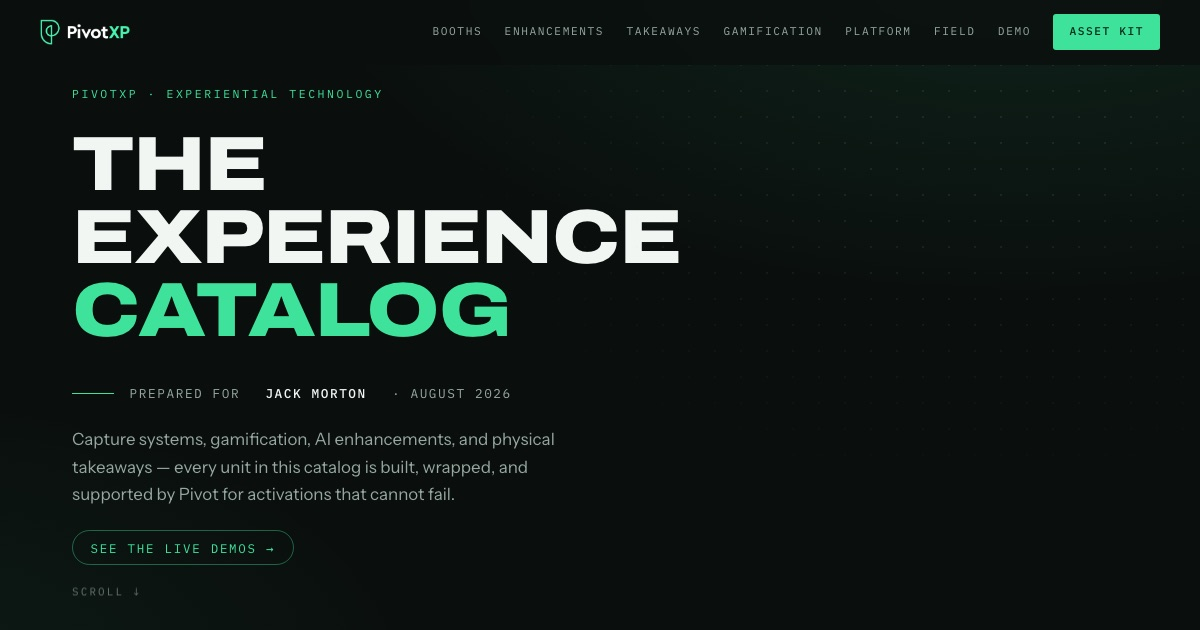
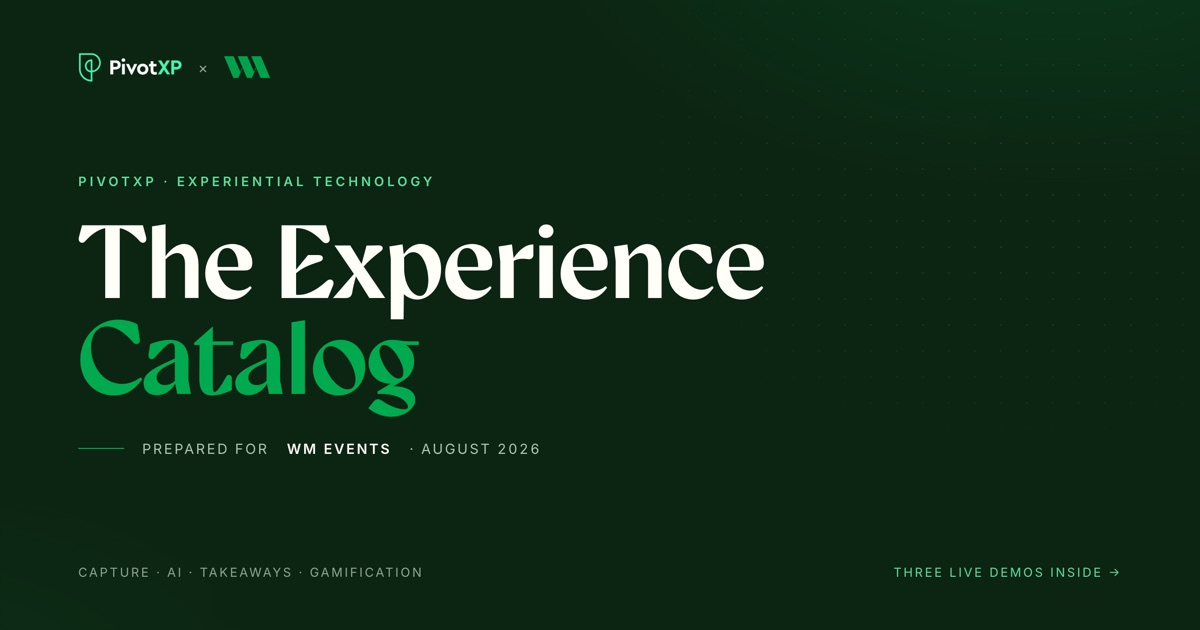
Fix the social card's client name; cut first paint from 3.4 MB to 333 KB
The link-preview image said JACK MORTON
- assets/img/og-cover.jpg was a hand-made file that still read "PREPARED FOR
  JACK MORTON". That image is the first thing a recipient sees when the link
  is pasted into Slack, email or LinkedIn - the most visible instance of the
  leak so far, and invisible from the page itself. Replaced with a card
  rendered from markup (tools/og-card.html + tools/make-og.mjs) so it can
  never drift from the client it was built for.
- Dropped og:url. It pointed at the original repo, so clicking the preview
  card sent people to a build without any of these fixes. With no og:url
  scrapers fall back to whatever URL was actually shared.
- og:image now points at the copy that holds the current card, with a note
  to update the one line if this is merged back upstream.

First paint 3,435 KB / 24 requests -> 333 KB / 8
- Video posters were 2,564 KB of that. A <video poster> is fetched eagerly
  regardless of preload or loading, so all sixteen downloaded before the
  reader had scrolled past the cover. Deferred behind an observer like the
  demo frames, with a branded background so an unresolved frame doesn't
  flash black. The lightbox falls back to data-poster for a card opened
  before its poster resolved.
- The six product renders were 3,408 KB of PNG. WebP at q88 keeps the alpha
  and the LED gradients and costs 329 KB - 91% smaller.
- Three photos were encoded at 1.3-2.1 bytes/pixel (selfie-event-1 was
[…]

diff --git a/index.html b/index.html
@@ -8,8 +8,16 @@
 <meta name="description" content="PivotXP experiential product catalog, prepared for WM Events.">
 <meta property="og:title" content="Pivot × WM Events — The Experience Catalog">
 <meta property="og:description" content="Capture systems, gamification, AI enhancements, and physical takeaways — with three live demos you can drive in the browser.">
-<meta property="og:image" content="https://pivotxp.github.io/wm-events-catalog/assets/img/og-cover.jpg">
-<meta property="og:url" content="https://pivotxp.github.io/wm-events-catalog/">
+<!-- og:image must be absolute for scrapers. It points at the copy that actually holds
+     the current card; the original repo still has the old one. Update this single line
+     if this build is merged back to pivotxp/wm-events-catalog.
+     Regenerate the card itself with: node tools/make-og.mjs -->
+<meta property="og:image" content="https://kpscriptz.github.io/wm-events-catalog-v2/assets/img/og-cover.jpg?v=5">
+<meta property="og:image:width" content="1200">
+<meta property="og:image:height" content="630">
+<meta property="og:image:alt" content="Pivot × WM Events — The Experience Catalog">
+<!-- no og:url on purpose: scrapers fall back to the URL actually shared, so the
+     preview card can never send someone to a different build than the link. -->
 <meta property="og:type" content="website">
 <meta name="twitter:card" content="summary_large_image">
 <meta name="theme-color" content="#0C2412">
@@ -112,6 +120,9 @@ section{padding:clamp(4rem,9vw,7.5rem) clamp(1.2rem,6vw,5rem)}
 /* ---------- product spreads ---------- */
 .product{display:grid;grid-template-columns:minmax(0,5fr) minmax(0,7fr);gap:clamp(1.5rem,4vw,4rem);align-items:start;padding:clamp(2.5rem,5vw,4rem) 0;border-top:1px solid var(--line)}
 .product:first-of-type{border-top:none;padding-top:0}
+/* a spread with no field media has a short info column next to a full-height
+   render; centring it beats leaving ~220px of dead space under the copy */
+.product:not(:has(.media)){align-items:center}
 .product .stage{background:linear-gradient(180deg,var(--raise),var(--surface));border:1px solid var(--line);border-radius:6px;padding:clamp(1.5rem,3vw,2.6rem);display:flex;align-items:center;justify-content:center;position:sticky;top:5.2rem}
 .product .stage img{max-height:440px;width:auto;max-width:100%;filter:drop-shadow(0 30px 40px rgba(0,0,0,.5))}
 .product .info .kicker{margin-bottom:.5rem}
@@ -127,6 +138,9 @@ section{padding:clamp(4rem,9vw,7.5rem) clamp(1.2rem,6vw,5rem)}
 .media{display:grid;gap:.8rem;grid-template-columns:repeat(auto-fit,minmax(230px,1fr));align-items:start}
 .media figure{position:relative;border-radius:5px;overflow:hidden;background:var(--surface);border:1px solid var(--line);cursor:zoom-in}
 .media img,.media video{width:100%;height:auto}
+/* posters load on approach, so give the video box a branded fill rather than
+   letting an empty frame flash black against the page */
+video{background:var(--raise)}
 
 .media figcaption{position:absolute;inset:auto 0 0 0;padding:1.5rem .8rem .6rem;font-family:var(--mono);font-size:.64rem;letter-spacing:.12em;text-transform:uppercase;color:rgba(241,246,243,.92);background:linear-gradient(transparent,rgba(6,12,9,.85));pointer-events:none}
 .vwrap{position:relative;cursor:pointer}
@@ -392,7 +406,7 @@ footer .fine a{color:var(--muted)}
 
   <!-- Selfie Station -->
   <article class="product reveal">
-    <div class="stage"><img src="assets/img/render-lite.png" alt="Selfie Station kiosk with halo ring light, shown in a WM Events custom wrap" loading="lazy" width="679" height="1734"></div>
+    <div class="stage"><img src="assets/img/render-lite.webp" alt="Selfie Station kiosk with halo ring light, shown in a WM Events custom wrap" loading="lazy" width="679" height="1734"></div>
     <div class="info">
       <span class="kicker">PB·01</span>
       <h3>Selfie Station</h3>
@@ -400,18 +414,18 @@ footer .fine a{color:var(--muted)}
       <div class="specs"><span>Stills · GIF · Boomerang · Video</span><span>Instant SMS / Email / QR</span><span>Full custom wrap</span><span>2 ft footprint</span><span>AI background removal</span><span class="intouch"><em>works with</em><b>your registration platform</b></span></div>
       <p class="seen">In the field&nbsp;· <b>Downy Unstopables · Gymshark · Marvel</b></p>
       <div class="media">
-        <figure class="vwrap"><video preload="none" poster="assets/poster/selfie-demo.jpg" src="assets/video/selfie-demo.mp4" playsinline width="1080" height="1080"></video><span class="playbtn"><svg viewBox="0 0 24 24"><path d="M8 5v14l11-7z"/></svg></span><figcaption>On-screen experience</figcaption></figure>
-        <figure class="vwrap"><video preload="none" poster="assets/poster/selfie-unstopables.jpg" src="assets/video/selfie-unstopables.mp4" playsinline width="540" height="960"></video><span class="playbtn"><svg viewBox="0 0 24 24"><path d="M8 5v14l11-7z"/></svg></span><figcaption>Downy Unstopables</figcaption></figure>
-        <figure><img src="assets/img/selfie-event-1.jpg" alt="Guest at a branded Gymshark phone-booth activation" loading="lazy" width="562" height="1000"><figcaption>Gymshark</figcaption></figure>
+        <figure class="vwrap"><video preload="none" data-poster="assets/poster/selfie-demo.jpg" src="assets/video/selfie-demo.mp4" playsinline width="1080" height="1080"></video><span class="playbtn"><svg viewBox="0 0 24 24"><path d="M8 5v14l11-7z"/></svg></span><figcaption>On-screen experience</figcaption></figure>
+        <figure class="vwrap"><video preload="none" data-poster="assets/poster/selfie-unstopables.jpg" src="assets/video/selfie-unstopables.mp4" playsinline width="540" height="960"></video><span class="playbtn"><svg viewBox="0 0 24 24"><path d="M8 5v14l11-7z"/></svg></span><figcaption>Downy Unstopables</figcaption></figure>
+        <figure><img src="assets/img/selfie-event-1.webp" alt="Guest at a branded Gymshark phone-booth activation" loading="lazy" width="562" height="1000"><figcaption>Gymshark</figcaption></figure>
         <figure><img src="assets/img/selfie-event-2.jpg" alt="Selfie Station activation on site" loading="lazy" width="1400" height="1400"><figcaption>On site</figcaption></figure>
-        <figure><img src="assets/img/selfie-event-3.jpg" alt="Guest photographed against a Marvel branded backdrop" loading="lazy" width="1000" height="1000"><figcaption>Marvel · Brave New World</figcaption></figure>
+        <figure><img src="assets/img/selfie-event-3.webp" alt="Guest photographed against a Marvel branded backdrop" loading="lazy" width="1000" height="1000"><figcaption>Marvel · Brave New World</figcaption></figure>
       </div>
     </div>
   </article>
 
   <!-- PRO -->
   <article class="product reveal">
-    <div class="stage"><img src="assets/img/render-pro.png" alt="PRO booth, front and back, with adjustable tilting head unit" loading="lazy" width="848" height="1174"></div>
+    <div class="stage"><img src="assets/img/render-pro.webp" alt="PRO booth, front and back, with adjustable tilting head unit" loading="lazy" width="848" height="1174"></div>
     <div class="info">
       <span class="kicker">PB·02</span>
       <h3>PRO</h3>
@@ -419,8 +433,8 @@ footer .fine a{color:var(--muted)}
       <div class="specs"><span>DSLR-grade capture</span><span>Adjustable head</span><span>Stills · GIF · Boomerang · Video</span><span>Physical takeaways</span><span>AI background removal</span><span class="intouch"><em>works with</em><b>your registration platform</b></span></div>
       <p class="seen">In the field&nbsp;· <b>CMA Fest</b></p>
       <div class="media">
-        <figure class="vwrap"><video preload="none" poster="assets/poster/pro-demo-1.jpg" src="assets/video/pro-demo-1.mp4" playsinline width="1920" height="1280"></video><span class="playbtn"><svg viewBox="0 0 24 24"><path d="M8 5v14l11-7z"/></svg></span><figcaption>Capture flow</figcaption></figure>
-        <figure class="vwrap"><video preload="none" poster="assets/poster/pro-demo-2.jpg" src="assets/video/pro-demo-2.mp4" playsinline width="1920" height="1280"></video><span class="playbtn"><svg viewBox="0 0 24 24"><path d="M8 5v14l11-7z"/></svg></span><figcaption>Guest experience</figcaption></figure>
+        <figure class="vwrap"><video preload="none" data-poster="assets/poster/pro-demo-1.jpg" src="assets/video/pro-demo-1.mp4" playsinline width="1920" height="1280"></video><span class="playbtn"><svg viewBox="0 0 24 24"><path d="M8 5v14l11-7z"/></svg></span><figcaption>Capture flow</figcaption></figure>
+        <figure class="vwrap"><video preload="none" data-poster="assets/poster/pro-demo-2.jpg" src="assets/video/pro-demo-2.mp4" playsinline width="1920" height="1280"></video><span class="playbtn"><svg viewBox="0 0 24 24"><path d="M8 5v14l11-7z"/></svg></span><figcaption>Guest experience</figcaption></figure>
         <figure><img src="assets/img/pro-output.jpg" alt="Branded Chevrolet CMA Fest photo output of a guest with guitar in front of a gold record" loading="lazy" width="1400" height="933"><figcaption>Branded output · CMA Fest</figcaption></figure>
       </div>
     </div>
@@ -428,7 +442,7 @@ footer .fine a{color:var(--muted)}
 
   <!-- Elevated Kiosk -->
   <article class="product reveal">
-    <div class="stage"><img src="assets/img/render-kiosk.png" alt="Elevated Kiosk with LED edge lighting, large touch screen, and integrated printer" loading="lazy" width="1142" height="1504"></div>
+    <div class="stage"><img src="assets/img/render-kiosk.webp" alt="Elevated Kiosk with LED edge lighting, large touch screen, and integrated printer" loading="lazy" width="1142" height="1504"></div>
     <div class="info">
       <span class="kicker">PB·03</span>
       <h3>Elevated Kiosk</h3>
@@ -439,7 +453,7 @@ footer .fine a{color:var(--muted)}
 
   <!-- Robot -->
   <article class="product reveal">
-    <div class="stage"><img src="assets/img/render-robot.png" alt="Robotic camera arm mounted on a rail atop a branded base cabinet" loading="lazy" width="637" height="837"></div>
+    <div class="stage"><img src="assets/img/render-robot.webp" alt="Robotic camera arm mounted on a rail atop a branded base cabinet" loading="lazy" width="637" height="837"></div>
     <div class="info">
       <span class="kicker">PB·04</span>
       <h3>Robot</h3>
@@ -447,15 +461,15 @@ footer .fine a{color:var(--muted)}
       <div class="specs"><span>Programmable moves</span><span>Cinematic slow-mo</span><span>Rail-mounted arm</span><span>Crowd magnet</span><span>AI background removal</span><span class="intouch"><em>works with</em><b>your registration platform</b></span></div>
       <p class="seen">In the field&nbsp;· <b>CMA Awards · USAA × NFL Salute to Service · Marvel × American Family Insurance</b></p>
       <div class="media">
-        <figure class="vwrap"><video preload="none" poster="assets/poster/robot-cma.jpg" src="assets/video/robot-cma.mp4" playsinline width="568" height="320"></video><span class="playbtn"><svg viewBox="0 0 24 24"><path d="M8 5v14l11-7z"/></svg></span><figcaption>CMA Awards</figcaption></figure>
-        <figure class="vwrap"><video preload="none" poster="assets/poster/robot-marvel.jpg" src="assets/video/robot-marvel.mp4" playsinline width="960" height="960"></video><span class="playbtn"><svg viewBox="0 0 24 24"><path d="M8 5v14l11-7z"/></svg></span><figcaption>Captain America · AmFam</figcaption></figure>
+        <figure class="vwrap"><video preload="none" data-poster="assets/poster/robot-cma.jpg" src="assets/video/robot-cma.mp4" playsinline width="568" height="320"></video><span class="playbtn"><svg viewBox="0 0 24 24"><path d="M8 5v14l11-7z"/></svg></span><figcaption>CMA Awards</figcaption></figure>
+        <figure class="vwrap"><video preload="none" data-poster="assets/poster/robot-marvel.jpg" src="assets/video/robot-marvel.mp4" playsinline width="960" height="960"></video><span class="playbtn"><svg viewBox="0 0 24 24"><path d="M8 5v14l11-7z"/></svg></span><figcaption>Captain America · AmFam</figcaption></figure>
       </div>
     </div>
   </article>
 
   <!-- 360 -->
   <article class="product reveal">
-    <div class="stage"><img src="assets/img/render-360.png" alt="360 camera platform with rotating boom arm, shown in a WM Events wrap" loading="lazy" width="1338" height="1160"></div>
+    <div class="stage"><img src="assets/img/render-360.webp" alt="360 camera platform with rotating boom arm, shown in a WM Events wrap" loading="lazy" width="1338" height="1160"></div>
     <div class="info">
       <span class="kicker">PB·05</span>
       <h3>360 Camera</h3>
@@ -463,14 +477,14 @@ footer .fine a{color:var(--muted)}
       <div class="specs"><span>Slow-mo orbit video</span><span>Truss or floor mount</span><span>Branded overlays</span><span>Instant delivery</span><span>AI background removal</span><span class="intouch"><em>works with</em><b>your registration platform</b></span></div>
       <p class="seen">In the field&nbsp;· <b>CMA Fest</b></p>
       <div class="media">
-        <figure class="vwrap"><video preload="none" poster="assets/poster/360-overhead.jpg" src="assets/video/360-overhead.mp4" playsinline width="1080" height="1080"></video><span class="playbtn"><svg viewBox="0 0 24 24"><path d="M8 5v14l11-7z"/></svg></span><figcaption>Overhead 360</figcaption></figure>
+        <figure class="vwrap"><video preload="none" data-poster="assets/poster/360-overhead.jpg" src="assets/video/360-overhead.mp4" playsinline width="1080" height="1080"></video><span class="playbtn"><svg viewBox="0 0 24 24"><path d="M8 5v14l11-7z"/></svg></span><figcaption>Overhead 360</figcaption></figure>
       </div>
     </div>
   </article>
 
   <!-- Array -->
   <article class="product reveal">
-    <div class="stage"><img src="assets/img/render-array.png" alt="Array multi-camera gantry with seven camera lenses across the top beam" loading="lazy" width="1150" height="1453"></div>
+    <div class="stage"><img src="assets/img/render-array.webp" alt="Array multi-camera gantry with seven camera lenses across the top beam" loading="lazy" width="1150" height="1453"></div>
     <div class="info">
       <span class="kicker">PB·06</span>
       <h3>Array</h3>
@@ -478,7 +492,7 @@ footer .fine a{color:var(--muted)}
       <div class="specs"><span>7 or 14 cameras, synced</span><span>Freeze + sweep effect</span><span>Walk-through gantry</span><span>Full custom wrap</span><span>AI background removal</span><span class="intouch"><em>works with</em><b>your registration platform</b></span></div>
       <p class="seen">In the field&nbsp;· <b>Argylle premiere · Universal Studios</b></p>
       <div class="media">
-        <figure class="vwrap"><video preload="none" poster="assets/poster/array-demo.jpg?v=2" src="assets/video/array-demo.mp4?v=2" playsinline width="568" height="320"></video><span class="playbtn"><svg viewBox="0 0 24 24"><path d="M8 5v14l11-7z"/></svg></span><figcaption>Argylle premiere · bullet-time</figcaption></figure>
+        <figure class="vwrap"><video preload="none" data-poster="assets/poster/array-demo.jpg?v=2" src="assets/video/array-demo.mp4?v=2" playsinline width="568" height="320"></video><span class="playbtn"><svg viewBox="0 0 24 24"><path d="M8 5v14l11-7z"/></svg></span><figcaption>Argylle premiere · bullet-time</figcaption></figure>
       </div>
     </div>
   </article>
@@ -501,19 +515,19 @@ footer .fine a{color:var(--muted)}
       <div class="txt"><span class="kicker">ENH·02</span><h4>Themed Regeneration</h4><p>The same regeneration engine, art-directed to a theme. At CMA Fest, guests stepped out of the booth in full “Western Glam.”</p></div>
     </div>
     <div class="card">
-      <div class="art vwrap"><video preload="none" poster="assets/poster/ai-suit.jpg" src="assets/video/ai-suit.mp4" playsinline width="640" height="960"></video><span class="playbtn"><svg viewBox="0 0 24 24"><path d="M8 5v14l11-7z"/></svg></span></div>
+      <div class="art vwrap"><video preload="none" data-poster="assets/poster/ai-suit.jpg" src="assets/video/ai-suit.mp4" playsinline width="640" height="960"></video><span class="playbtn"><svg viewBox="0 0 24 24"><path d="M8 5v14l11-7z"/></svg></span></div>
       <div class="txt"><span class="kicker">ENH·03</span><h4>AI Head Swap</h4><p>The guest’s face on a pre-approved branded body and scene — team kits, black tie, race suits — every logo, seam, and sponsor mark 100% on point.</p></div>
     </div>
     <div class="card">
-      <div class="art"><img src="assets/img/enhance-1.jpg" alt="Two guests cleanly cut out and placed into a stadium scene" loading="lazy" width="1000" height="1000"></div>
+      <div class="art"><img src="assets/img/enhance-1.webp" alt="Two guests cleanly cut out and placed into a stadium scene" loading="lazy" width="1000" height="1000"></div>
       <div class="txt"><span class="kicker">ENH·04</span><h4>AI Background Removal</h4><p>The subjects stay exactly as shot — lifted from the booth and placed naturally into the scene, edges and all.</p></div>
     </div>
     <div class="card">
-      <div class="art vwrap"><video preload="none" poster="assets/poster/enhance-name-sign.jpg" src="assets/video/enhance-name-sign.mp4" playsinline width="1920" height="1280"></video><span class="playbtn"><svg viewBox="0 0 24 24"><path d="M8 5v14l11-7z"/></svg></span></div>
+      <div class="art vwrap"><video preload="none" data-poster="assets/poster/enhance-name-sign.jpg" src="assets/video/enhance-name-sign.mp4" playsinline width="1920" height="1280"></video><span class="playbtn"><svg viewBox="0 0 24 24"><path d="M8 5v14l11-7z"/></svg></span></div>
       <div class="txt"><span class="kicker">ENH·05</span><h4>Personalized Signage</h4><p>Background removal with a personal touch — guests type their name and it renders into the scene, like this family’s neon marquee at CMA Fest.</p></div>
     </div>
     <div class="card">
-      <div class="art vwrap"><video preload="none" poster="assets/poster/enhance-walkout.jpg" src="assets/video/enhance-walkout.mp4" playsinline width="480" height="384"></video><span class="playbtn"><svg viewBox="0 0 24 24"><path d="M8 5v14l11-7z"/></svg></span></div>
+      <div class="art vwrap"><video preload="none" data-poster="assets/poster/enhance-walkout.jpg" src="assets/video/enhance-walkout.mp4" playsinline width="480" height="384"></video><span class="playbtn"><svg viewBox="0 0 24 24"><path d="M8 5v14l11-7z"/></svg></span></div>
       <div class="txt"><span class="kicker">ENH·06</span><h4>AI Walk-Out Video</h4><p>A guest photo and an AI prompt become a custom walk-out video — the guest striding onto the field as the hero of game day.</p></div>
     </div>
   </div>
@@ -555,16 +569,16 @@ footer .fine a{color:var(--muted)}
   </div>
   <div class="cards reveal" id="gamification-cards">
     <div class="card">
-      <div class="art vwrap"><video preload="none" poster="assets/poster/karaoke.jpg?v=3" src="assets/video/karaoke.mp4?v=3" playsinline width="1920" height="1080"></video><span class="playbtn"><svg viewBox="0 0 24 24"><path d="M8 5v14l11-7z"/></svg></span></div>
+      <div class="art vwrap"><video preload="none" data-poster="assets/poster/karaoke.jpg?v=3" src="assets/video/karaoke.mp4?v=3" playsinline width="1920" height="1080"></video><span class="playbtn"><svg viewBox="0 0 24 24"><path d="M8 5v14l11-7z"/></svg></span></div>
       <div class="txt"><span class="kicker">GAME·01</span><h4>Car Karaoke</h4><p>Guests take the driver’s seat and perform — cameras rolling, lyrics on screen, and a share-ready music video delivered at the door. Built for the CMA Awards.</p><span class="intouch"><em>works with</em><b>your registration platform</b></span></div>
     </div>
     <div class="card">
-      <div class="art vwrap"><video preload="none" poster="assets/poster/pitch.jpg" src="assets/video/pitch.mp4" playsinline width="320" height="568"></video><span class="playbtn"><svg viewBox="0 0 24 24"><path d="M8 5v14l11-7z"/></svg></span></div>
+      <div class="art vwrap"><video preload="none" data-poster="assets/poster/pitch.jpg" src="assets/video/pitch.mp4" playsinline width="320" height="568"></video><span class="playbtn"><svg viewBox="0 0 24 24"><path d="M8 5v14l11-7z"/></svg></span></div>
       <div class="txt"><span class="kicker">GAME·02</span><h4>Pitch Against the Machine</h4><p>A radar-tracked pitching duel against a pro on screen. Speed, accuracy, and bragging rights — with a leaderboard to keep the midway packed. Built for Speedway Classic.</p>
       <a class="case" href="https://pivotxp.com/case-studies/chevy-baseball-pitch-interactive-activation-system" target="_blank" rel="noopener">Read the case study</a><span class="intouch"><em>works with</em><b>your registration platform</b></span></div>
     </div>
     <div class="card">
-      <div class="art vwrap"><video preload="none" poster="assets/poster/leaderboards.jpg" src="assets/video/leaderboards.mp4" playsinline width="1280" height="720"></video><span class="playbtn"><svg viewBox="0 0 24 24"><path d="M8 5v14l11-7z"/></svg></span></div>
+      <div class="art vwrap"><video preload="none" data-poster="assets/poster/leaderboards.jpg" src="assets/video/leaderboards.mp4" playsinline width="1280" height="720"></video><span class="playbtn"><svg viewBox="0 0 24 24"><path d="M8 5v14l11-7z"/></svg></span></div>
       <div class="txt"><span class="kicker">GAME·03</span><h4>Leaderboards</h4><p>Live standings on any screen on site, updated the moment a score lands. Run at LIV Golf, NFL Bootcamp, and for US Cellular.</p><span class="intouch"><em>works with</em><b>your registration platform</b></span></div>
     </div>
   </div>
@@ -612,12 +626,12 @@ footer .fine a{color:var(--muted)}
     <p>Beyond the booth line: full custom sets, broadcast desks, and branded builds — designed, fabricated, and run by Pivot crews.</p>
   </div>
   <div class="media reveal field-grid">
-    <figure class="vwrap"><video preload="none" poster="assets/poster/install-liv.jpg" src="assets/video/install-liv.mp4" playsinline width="960" height="540"></video><span class="playbtn"><svg viewBox="0 0 24 24"><path d="M8 5v14l11-7z"/></svg></span></figure>
+    <figure class="vwrap"><video preload="none" data-poster="assets/poster/install-liv.jpg" src="assets/video/install-liv.mp4" playsinline width="960" height="540"></video><span class="playbtn"><svg viewBox="0 0 24 24"><path d="M8 5v14l11-7z"/></svg></span></figure>
     <figure><img src="assets/img/field-armynavy.jpg" alt="Chevrolet football toss cage at the Army-Navy game with live scoreboard and leaderboard" loading="lazy" width="1600" height="900"></figure>
     <figure><img src="assets/img/field-uscellular.jpg" alt="US Cellular giant boombox button wall at Summerfest" loading="lazy" width="1600" height="1200"></figure>
     <figure><img src="assets/img/field-ally.jpg" alt="Ally ACC Women's Tournament basketball bucket wall with live leaderboard" loading="lazy" width="1299" height="1400"></figure>
     <figure><img src="assets/img/field-trowe.jpg" alt="T. Rowe Price Curiosity Challenge trivia podium at the ACC Men's Tournament" loading="lazy" width="1233" height="1600"></figure>
-    <figure class="vwrap"><video preload="none" poster="assets/poster/field-experience.jpg" src="assets/video/field-experience.mp4" playsinline width="320" height="568"></video><span class="playbtn"><svg viewBox="0 0 24 24"><path d="M8 5v14l11-7z"/></svg></span></figure>
+    <figure class="vwrap"><video preload="none" data-poster="assets/poster/field-experience.jpg" src="assets/video/field-experience.mp4" playsinline width="320" height="568"></video><span class="playbtn"><svg viewBox="0 0 24 24"><path d="M8 5v14l11-7z"/></svg></span></figure>
     <figure><img src="assets/img/install-photo.jpg" alt="Custom activation install" loading="lazy" width="1400" height="1050"></figure>
   </div>
 </section>
@@ -834,6 +848,18 @@ const frameSrcIO=new IntersectionObserver(es=>es.forEach(e=>{
   f.removeAttribute('data-src');
 }),{rootMargin:'500px 0px'});
 
+// Video posters were 2.5 MB of a 3.4 MB first paint. A <video poster> is fetched
+// eagerly no matter what preload or loading say, so all sixteen downloaded before
+// the reader had scrolled past the cover. Same treatment as the frames.
+const posterIO=new IntersectionObserver(es=>es.forEach(e=>{
+  if(!e.isIntersecting)return;
+  const v=e.target;
+  posterIO.unobserve(v);
+  v.poster=v.dataset.poster;
+  v.removeAttribute('data-poster');
+}),{rootMargin:'600px 0px'});
+document.querySelectorAll('video[data-poster]').forEach(v=>posterIO.observe(v));
+
 document.querySelectorAll('.pg-unit iframe,.duo iframe').forEach(f=>{
   f.addEventListener('load',()=>tellFrame(f,frameCmd.get(f)||'pause'));
   frameIO.observe(f);
@@ -873,7 +899,8 @@ function mediaFrom(el){
   const vid=el.querySelector('video');
   if(vid){
     const v=document.createElement('video');
-    v.src=vid.getAttribute('src');v.poster=vid.getAttribute('poster')||'';
+    // poster may still be deferred on a card the reader opened immediately
+    v.src=vid.getAttribute('src');v.poster=vid.getAttribute('poster')||vid.dataset.poster||'';
     v.controls=true;v.playsInline=true;v.autoplay=true;
     return v;
   }

diff --git a/tools/og-card.html b/tools/og-card.html
@@ -1,0 +1,81 @@
+<!doctype html>
+<html lang="en">
+<head>
+<meta charset="utf-8">
+<title>OG card source — 1200×630</title>
+<!--
+  Source for assets/img/og-cover.jpg — the link-preview card shown in Slack,
+  iMessage, LinkedIn and email. Regenerate after changing the client name:
+
+      node tools/make-og.mjs
+
+  The previous card was a hand-made image that still read "PREPARED FOR
+  JACK MORTON", which is the first thing a recipient saw. Rendering it from
+  markup means the card can never drift from the client it was built for.
+-->
+<link rel="preconnect" href="https://fonts.googleapis.com">
+<link rel="preconnect" href="https://fonts.gstatic.com" crossorigin>
+<link rel="stylesheet" href="https://fonts.googleapis.com/css2?family=Inter:wght@400..700&display=swap">
+<style>
+@font-face{font-family:Gyst;src:url(../assets/fonts/Gyst-Bold.otf) format('opentype');font-weight:700}
+@font-face{font-family:Gyst;src:url(../assets/fonts/Gyst-Medium.otf) format('opentype');font-weight:500}
+:root{
+  --bg:#0C2412; --ink:#FFFEF7; --muted:#AEC6B4; --dim:#8AA791;
+  --mint:#01A94F; --mint-lt:#5FDD9A;
+  --disp:"Gyst",Georgia,serif;
+  --body:"Inter",system-ui,-apple-system,"Segoe UI",Helvetica,Arial,sans-serif;
+}
+*{margin:0;padding:0;box-sizing:border-box}
+html,body{width:1200px;height:630px;overflow:hidden}
+body{background:
+    radial-gradient(900px 460px at 88% -12%,rgba(1,169,79,.16),transparent 60%),
+    radial-gradient(700px 400px at -8% 112%,rgba(1,169,79,.08),transparent 60%),
+    var(--bg);
+  color:var(--ink);font-family:var(--body);position:relative;
+  display:flex;flex-direction:column;justify-content:center;
+  padding:0 78px;-webkit-font-smoothing:antialiased}
+/* same dot field as the site cover */
+body::after{content:"";position:absolute;inset:0;pointer-events:none;
+  background-image:radial-gradient(rgba(174,198,180,.11) 1px,transparent 1px);
+  background-size:26px 26px;
+  mask-image:radial-gradient(560px 420px at 84% 26%,#000 18%,transparent 74%);
+  -webkit-mask-image:radial-gradient(560px 420px at 84% 26%,#000 18%,transparent 74%)}
+.brand{position:absolute;top:52px;left:78px;display:flex;align-items:center;gap:16px}
+.brand img{height:30px;width:auto;display:block}
+.brand .x{font-size:15px;color:var(--dim)}
+.brand .mark{height:22px;width:auto;opacity:.95}
+.eyebrow{font-weight:600;font-size:13px;letter-spacing:.24em;text-transform:uppercase;
+  color:var(--mint-lt);margin-bottom:26px}
+h1{font-family:var(--disp);font-weight:700;font-size:104px;line-height:.92;
+  letter-spacing:-.015em;max-width:13ch}
+h1 em{font-style:normal;color:var(--mint)}
+.prep{margin-top:34px;display:flex;align-items:center;gap:18px;
+  font-size:14px;letter-spacing:.14em;text-transform:uppercase;color:var(--muted);
+  font-variant-numeric:tabular-nums lining-nums}
+.prep::before{content:"";width:46px;height:1px;background:var(--mint);flex:none}
+.prep b{color:var(--ink);font-weight:600}
+.foot{position:absolute;left:78px;bottom:50px;right:78px;display:flex;
+  justify-content:space-between;align-items:baseline;
+  font-size:12.5px;letter-spacing:.16em;text-transform:uppercase;color:var(--dim)}
+.foot .demos{color:var(--mint-lt)}
+</style>
+</head>
+<body>
+
+<div class="brand">
+  <img src="../assets/img/pivot-logo.png" alt="PivotXP">
+  <span class="x">×</span>
+  <img class="mark" src="../assets/img/wmevents-mark.svg" alt="">
+</div>
+
+<p class="eyebrow">PivotXP · Experiential Technology</p>
+<h1>The Experience <em>Catalog</em></h1>
+<p class="prep">Prepared for <b>WM&nbsp;Events</b> · August 2026</p>
+
+<div class="foot">
+  <span>Capture · AI · Takeaways · Gamification</span>
+  <span class="demos">Three live demos inside →</span>
+</div>
+
+</body>
+</html>
